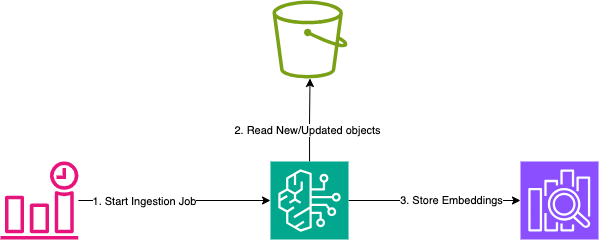
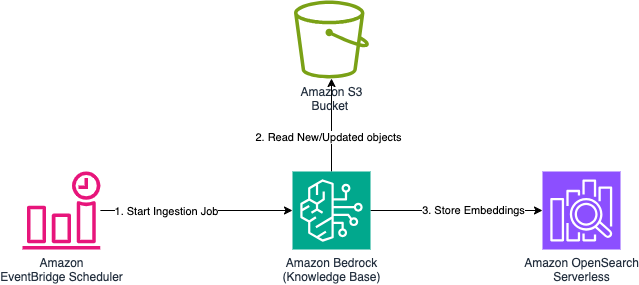
updated architecture diagram

Changed region(s): [[0.0, 0.0, 1.0, 1.0]]

diff --git a/eventbridge-bedrock-s3-aoss/README.md b/eventbridge-bedrock-s3-aoss/README.md
@@ -1,4 +1,4 @@
-# EventBridge to Amazon Bedrock
+# EventBridge to Amazon Bedrock to S3 and Amazon OpenSearch Serverless
 ![architecture](architecture/architecture.png)
 
 This pattern demonstrates an approach to automatically sync datasource associated with Knowledge Bases for Amazon Bedrock. Knowledge bases for Amazon Bedrock help you take advantage of Retrieval Augmented Generation (RAG), a popular technique that involves drawing information from a data store to augment the responses generated by Large Language Models (LLMs). When you set up a knowledge base with your data sources, your application can query the knowledge base to return information to answer the query either with direct quotations from sources or with natural responses generated from the query results.
